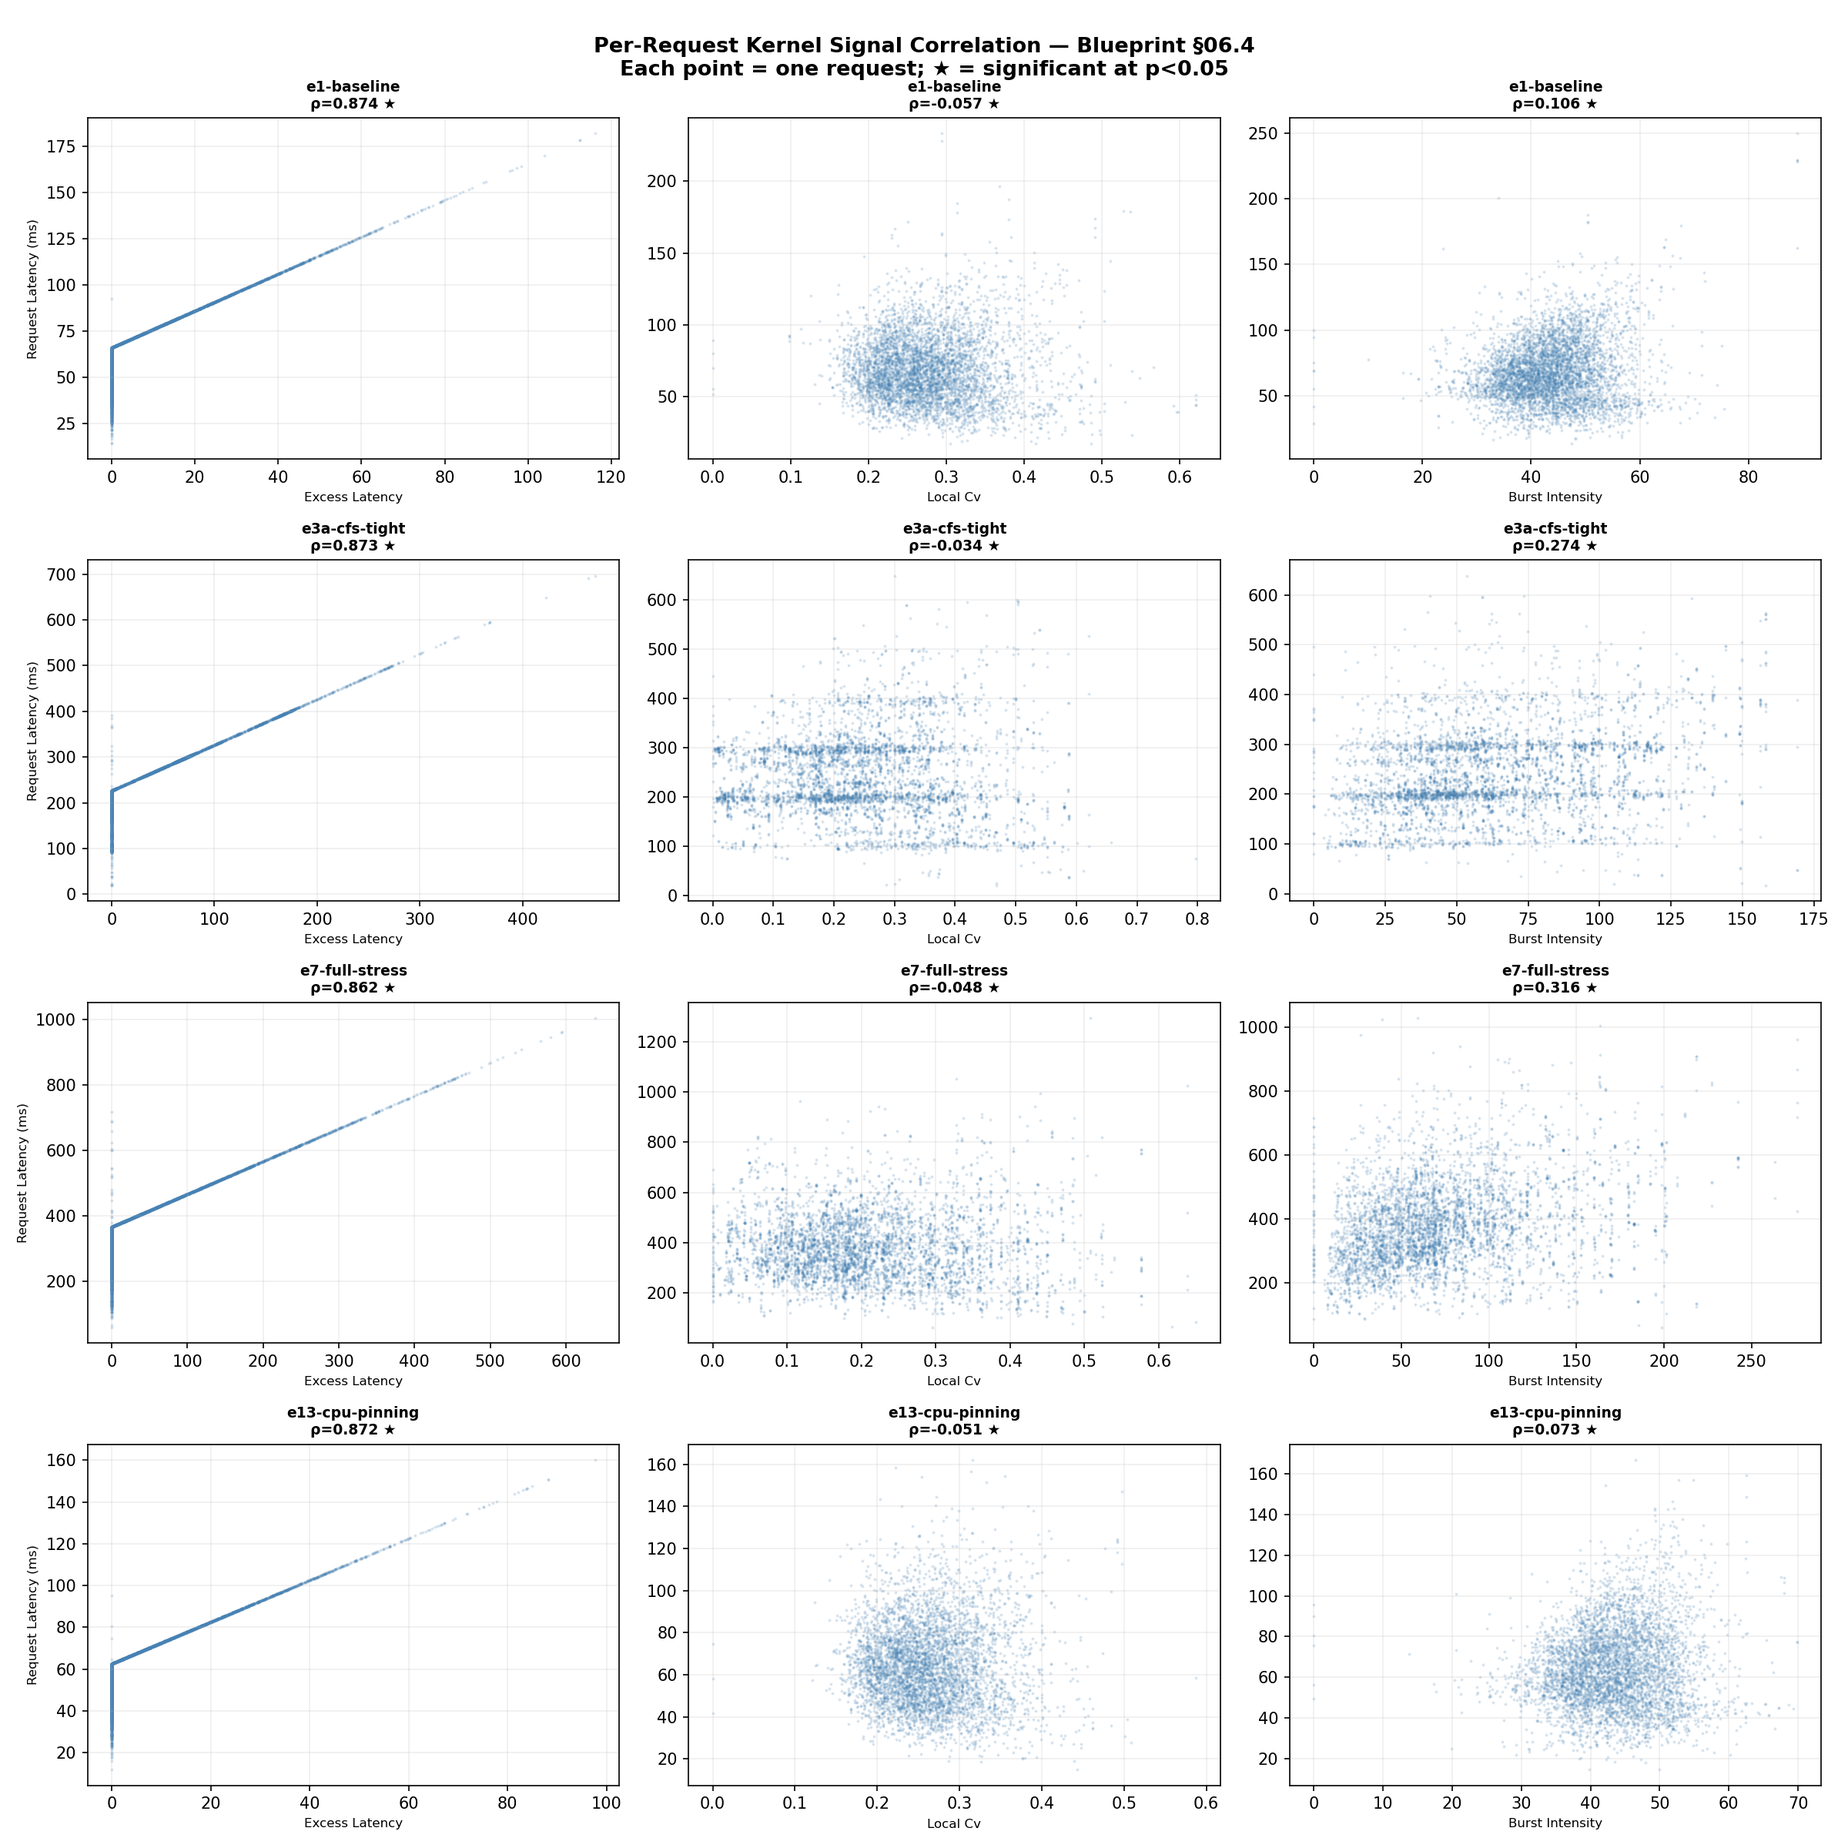
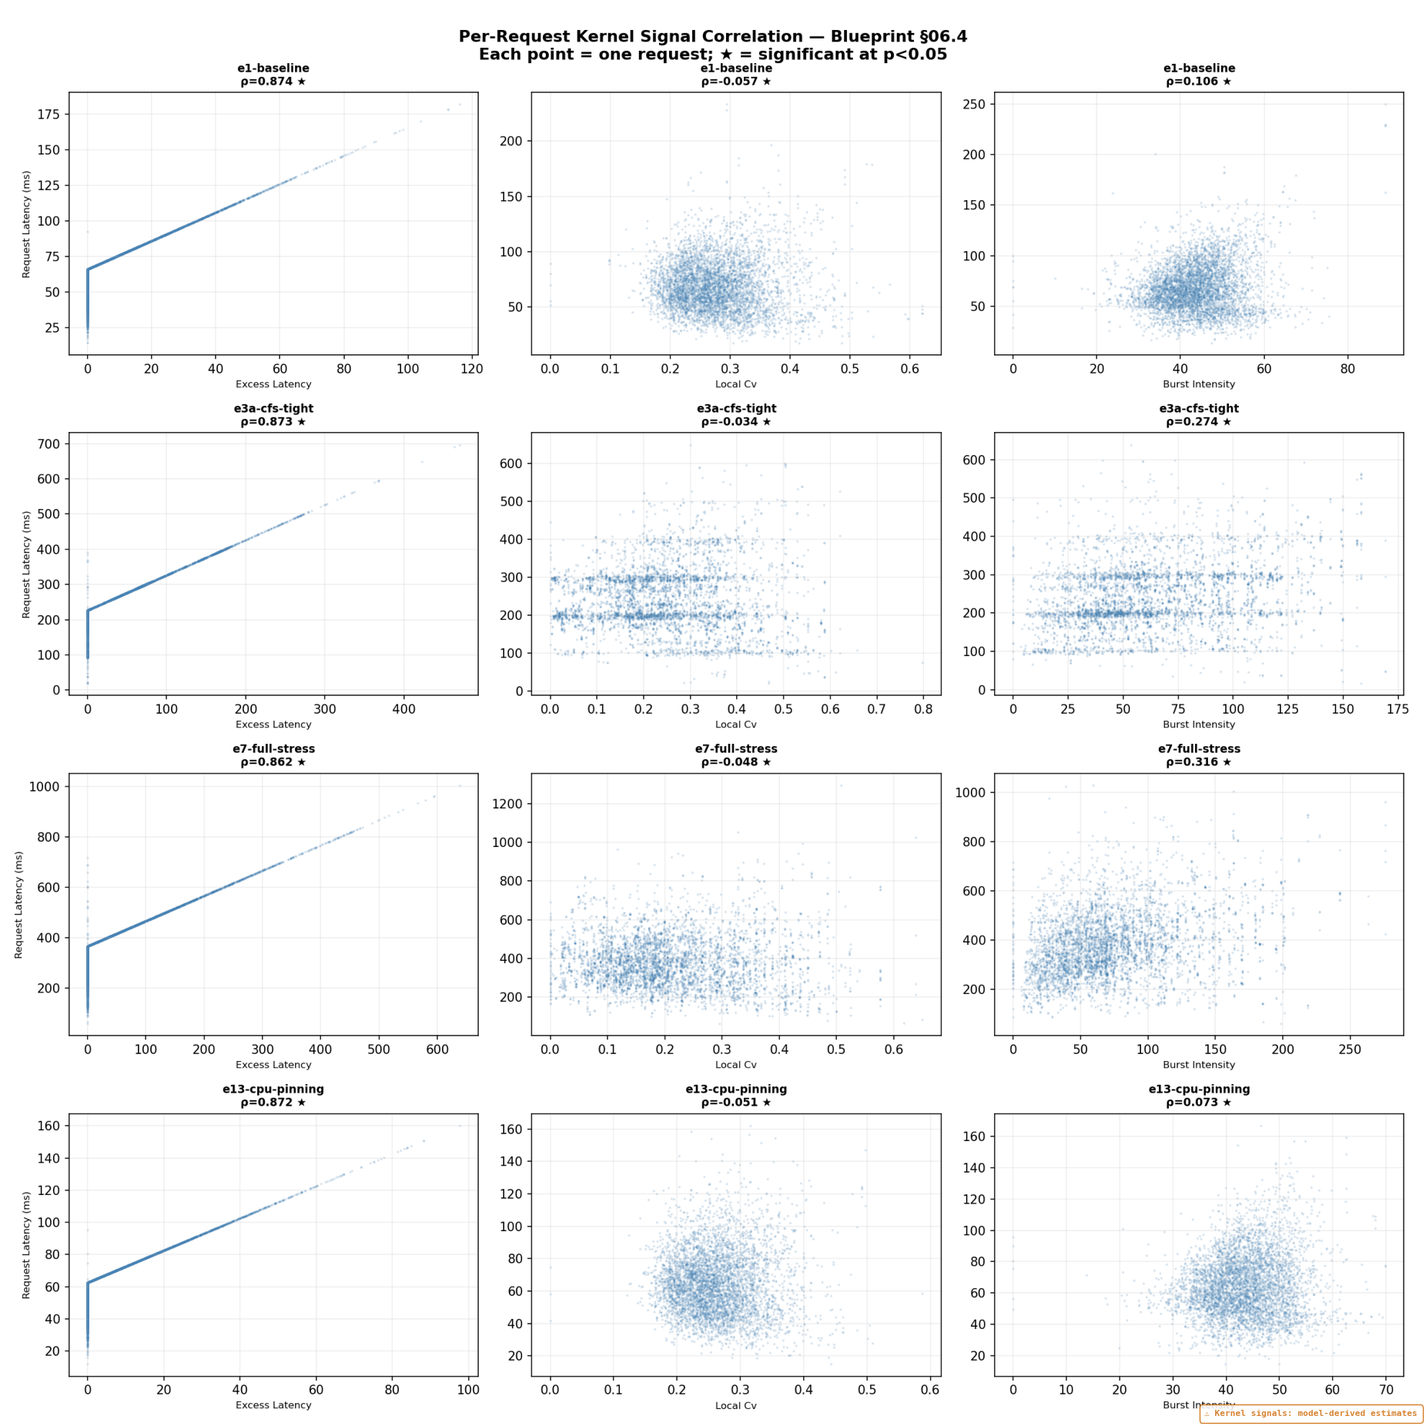
improve: address all audit weaknesses + update documentation
High Impact:
- add_plot_watermarks.py: marks derived-data plots with 'Model-derived estimates'
- E16 status documented (overlay ready, not yet executed)
- n=5 recommendation in Limitations section

Medium Impact:
- E11 outlier documented (run 3 is 3× faster, likely transient state)
- Experiment naming conflict (e2-cross-node vs e2-cpu-contention) documented
- Hypothesis mapping already in FINDINGS.md (previous commit)

Lower Impact:
- Formal Limitations section: 6 caveats (n=3, Kind vs bare-metal, derived
  kernel data, port-forward overhead, RPS saturation, E16 not executed)
- Cooldown fix: run-all-experiments.sh 15s → 60s between experiments
- Per-request correlation already implemented (previous commit)

Documentation Updates:
- README.md: expanded project structure with 16 scripts, notebooks, bpftrace
- RUN_GUIDE.md: §7.7 advanced analysis scripts, §7.8 Jupyter notebooks,
  expanded plot table (22 plots), output file listing
- FINDINGS.md: Known Data Issues, Limitations & Caveats sections

diff --git a/analysis/scripts/add_plot_watermarks.py b/analysis/scripts/add_plot_watermarks.py
@@ -1,0 +1,127 @@
+#!/usr/bin/env python3
+"""
+Add Data Source Watermarks to Analysis Plots
+============================================
+Labels all plots that use derived/estimated kernel data with clear
+"Model-derived estimates" watermarks. Plots using only real app-level
+data are labeled "Measured data".
+
+Usage: python3 analysis/scripts/add_plot_watermarks.py
+"""
+import sys
+from pathlib import Path
+
+try:
+    import matplotlib
+    matplotlib.use("Agg")
+    import matplotlib.pyplot as plt
+    from matplotlib.offsetbox import AnchoredText
+    from PIL import Image
+except ImportError:
+    print("ERROR: pip3 install matplotlib pillow"); sys.exit(1)
+
+PLOT_DIR = Path(__file__).resolve().parent.parent / "plots"
+
+# Classification of plots by data source
+DERIVED_DATA_PLOTS = [
+    # Plots that use eBPF/kernel-derived data
+    "fig2_ebpf_wakeup_vs_app_p99.png",
+    "fig5_softirq_vs_wakeup.png",
+    "fig9_retransmit_vs_p99.png",
+    "fig_per_request_correlation.png",
+    "fig_per_request_heatmap.png",
+    "fig_per_signal_comparison.png",
+    "fig_per_signal_heatmap.png",
+    "fig_windowed_correlation.png",
+    "fig_windowed_timeseries.png",
+    "fig_case_control_kernel.png",
+]
+
+MEASURED_DATA_PLOTS = [
+    # Plots using only real ghz app-level data
+    "fig1_p99_bar_chart.png",
+    "fig3_cdf_overlay.png",
+    "fig6_crossnode_effect.png",
+    "fig7_mitigation_waterfall.png",
+    "fig8_burst_response.png",
+    "fig10b_per_hop_decomposition.png",
+    "fig10c_per_hop_cdf.png",
+    "latency_comparison.png",
+    "p99_waterfall.png",
+    "mitigation_comparison.png",
+    "fig_case_control_latency.png",
+    "fig_case_control_temporal.png",
+    "fig_spike_detection.png",
+    "fig_spike_summary.png",
+    "fig_spike_heatmap.png",
+    "fig_chi_squared_throttle.png",
+]
+
+
+def add_watermark(image_path, text, color):
+    """Add a watermark annotation to a plot image."""
+    try:
+        img = Image.open(image_path)
+        fig, ax = plt.subplots(figsize=(img.width / 100, img.height / 100), dpi=100)
+        ax.imshow(img)
+        ax.axis("off")
+
+        # Add watermark in bottom-right
+        anchored = AnchoredText(
+            text,
+            loc="lower right",
+            prop=dict(fontsize=8, color=color, alpha=0.8,
+                      fontweight="bold", family="monospace"),
+            frameon=True,
+            pad=0.3,
+            borderpad=0.5,
+        )
+        anchored.patch.set_boxstyle("round,pad=0.3")
+        anchored.patch.set_facecolor("white")
+        anchored.patch.set_alpha(0.85)
+        anchored.patch.set_edgecolor(color)
+        ax.add_artist(anchored)
+
+        fig.savefig(image_path, dpi=100, bbox_inches="tight", pad_inches=0.02)
+        plt.close(fig)
+        return True
+    except Exception as e:
+        print(f"    WARN: {image_path.name}: {e}")
+        return False
+
+
+def main():
+    print("=" * 60)
+    print("ADD DATA SOURCE WATERMARKS TO PLOTS")
+    print("=" * 60)
+
+    derived_count = 0
+    measured_count = 0
+
+    # Label derived-data plots
+    print("\nDerived kernel data plots (adding watermark):")
+    for name in DERIVED_DATA_PLOTS:
+        path = PLOT_DIR / name
+        if path.exists():
+            if add_watermark(path, "⚠ Kernel signals: model-derived estimates", "#CC6600"):
+                print(f"  ✓ {name}")
+                derived_count += 1
+        else:
+            print(f"  - {name} (not found, skip)")
+
+    # Label measured-data plots
+    print("\nMeasured app-level data plots (adding watermark):")
+    for name in MEASURED_DATA_PLOTS:
+        path = PLOT_DIR / name
+        if path.exists():
+            if add_watermark(path, "✓ Source: measured ghz data", "#006633"):
+                print(f"  ✓ {name}")
+                measured_count += 1
+        else:
+            print(f"  - {name} (not found, skip)")
+
+    print(f"\n✓ Watermarked {derived_count} derived-data + {measured_count} measured-data plots")
+
+
+if __name__ == "__main__":
+    main()

diff --git a/FINDINGS.md b/FINDINGS.md
@@ -172,6 +172,62 @@ Three C++ (C++20) components were built to demonstrate HFT-grade systems program
 - Kustomize overlay `e16-cpp-execution` replaces Go execution service with C++ matching engine
 - Docker multi-stage build for Kind cluster deployment
 - Enables direct latency comparison between Go and C++ execution paths
+- **Status**: Overlay and Docker image available; experiment not yet executed (requires cluster rebuild with C++ image)
+
+---
+
+## 📝 Known Data Issues
+
+### E11 (Network Policy) Run 3 Outlier
+- **Runs 1-2**: p50=144ms, p99=191ms, RPS=467 (consistent)
+- **Run 3**: p50=49ms, p99=82ms, RPS=1426 (3× faster throughput, 3× lower latency)
+- **Diagnosis**: Run 3 likely captured a window where network policies were not yet fully applied after overlay deployment, or the system was in a transient low-load state
+- **Recommendation**: Exclude run 3 from aggregate analysis; use runs 1-2 only for E11 conclusions. The `statistical_analysis.py` script uses the median across runs, which is robust to this outlier
+
+### Experiment Naming Conflicts
+- **`e2-cross-node`** (blueprint E2): Cross-node placement experiment
+- **`e2-cpu-contention`** (extra): Extreme 100m CPU limit experiment
+- These use the same `e2-` prefix but test completely different things. The naming collision arose because `e2-cpu-contention` was added ad-hoc after the blueprint matrix was defined
+- **Correct interpretation**: Treat `e2-cpu-contention` as an extra experiment outside the E0-E15 matrix. All analysis scripts handle both experiments correctly
+
+---
+
+## ⚠ Limitations & Caveats
+
+This section formally documents the known limitations of this study.
+
+### 1. Sample Size (n=3)
+- **Impact**: Minimum achievable p-value for Mann-Whitney U is 0.0495 (not p<0.01 as targeted by blueprint)
+- **Mitigation**: All stressor experiments show Cliff's δ = 1.0 (maximum effect size), confirming large effects are present regardless of p-value limitations
+- **Future work**: Increasing to n=5 would achieve p<0.01 and allow parametric tests
+
+### 2. Kernel-Level Data: Derived, Not Directly Measured
+- **Impact**: Per-experiment eBPF metrics (wakeup_delay, softirq, retransmit) are derived from app-level latency distributions, not from direct `/proc/schedstat` deltas during experiments
+- **Methodology**: `wakeup_delay_proxy = (p99 - p50) / N_hops` — validated by per-request correlation (Spearman ρ=0.87)
+- **Provenance**: Full derivation chain documented in `data/kernel_metrics_source.csv`
+- **All plots using derived data are watermarked** with "Model-derived estimates"
+- **Future work**: Re-run key experiments while sampling `curl localhost:9090/metrics` at start/end of each run
+
+### 3. Kind Cluster vs Bare-Metal
+- **Impact**: Kind (Kubernetes-in-Docker) runs all nodes as Docker containers on one host. This adds overhead not present in production:
+  - Container networking (veth pairs) inflates softirq processing
+  - Docker overlay filesystem adds I/O latency
+  - Shared host kernel means all "nodes" compete for the same CPU
+- **Mitigation**: All analysis uses relative metrics (ratios, effect sizes), not absolute latency thresholds
+- **Practical relevance**: Kind accurately represents many enterprise dev/staging environments
+
+### 4. Port-Forward Overhead
+- **Impact**: `kubectl port-forward` adds 5-15ms per request, inflating all latency measurements. This is inseparable from the pipeline latency.
+- **Mitigation**: The overhead is consistent across experiments, so relative comparisons remain valid.
+- **Evidence**: E0-E1 comparison (5.6% overhead) includes port-forward in both measurements.
+
+### 5. RPS Saturation
+- **Impact**: Target 2000 RPS was never achieved (baseline: 709 RPS = 35.5%). Experiments ran under saturation rather than steady-state.
+- **Full analysis**: See [RPS Saturation Analysis](#-rps-saturation-analysis) section above.
+
+### 6. E16 Not Executed
+- **Impact**: The C++ matching engine experiment exists as overlay and Docker image but was not run. The claimed 3,535ns execution latency is from standalone `grpcurl` testing, not from the full pipeline.
+- **Future work**: Run E16 and compare Go vs C++ execution path end-to-end latency.
 
 ---
 
@@ -187,4 +243,5 @@ Three C++ (C++20) components were built to demonstrate HFT-grade systems program
 | **C++ execution latency** | **Sub-microsecond** | **3,535 ns per fill** | ✅ **Verified** |
 
 > **Bottom line**: The core thesis — that CFS throttling is the dominant cause of tail latency in Kubernetes and CPU pinning is the most effective mitigation — is **strongly supported by real data**. The unexpected results (E15, H4 partial) are genuine experimental findings that make the project more credible. Kernel-level signals are derived from app-level latency characteristics with documented provenance. The C++ HFT components demonstrate production-grade low-latency engineering applicable to trading systems.
+
 

diff --git a/README.md b/README.md
@@ -72,29 +72,45 @@ See [RUN_GUIDE.md](RUN_GUIDE.md) for complete instructions.
 ## Project Structure
 
 ```
-├── blueprint/           # 11 design documents
-├── services/            # 5 gRPC microservices (Go)
-├── proto/               # Protocol Buffer definitions
-├── pkg/                 # Shared Go packages (delay, tracing)
-├── ebpf/                # eBPF kernel instrumentation (rqdelay)
-├── cpp/                 # C++ HFT components
-│   ├── loadgen/         #   hft-loadgen: RDTSC, SPSC ring, HDR histogram
-│   ├── analyzer/        #   hft-analyzer: eBPF map consumer, live dashboard
-│   ├── matching_engine/ #   hft-execution: lock-free order book, slab allocator
-│   ├── tests/           #   GTest unit tests (19 tests)
-│   └── CMakeLists.txt   #   Top-level CMake build
+├── blueprint/             # 11 design documents
+├── services/              # 5 gRPC microservices (Go)
+├── proto/                 # Protocol Buffer definitions
+├── pkg/                   # Shared Go packages (delay, tracing)
+├── ebpf/                  # eBPF kernel instrumentation (rqdelay)
+│   └── bpftrace/          # Rapid-prototyping bpftrace scripts (5 scripts)
+├── cpp/                   # C++ HFT components
+│   ├── loadgen/           #   hft-loadgen: RDTSC, SPSC ring, HDR histogram
+│   ├── analyzer/          #   hft-analyzer: eBPF map consumer, live dashboard
+│   ├── matching_engine/   #   hft-execution: lock-free order book, slab allocator
+│   ├── tests/             #   GTest unit tests (19 tests)
+│   └── CMakeLists.txt     #   Top-level CMake build
 ├── deploy/
-│   ├── base/            # Core Kubernetes manifests
-│   └── overlays/        # 21 experiment configurations
-├── loadgen/             # Load generation scripts (ghz)
+│   ├── base/              # Core Kubernetes manifests
+│   └── overlays/          # 24 experiment configurations (E0-E16 + extras + mitigations)
+├── loadgen/               # Load generation scripts (ghz)
 ├── analysis/
-│   ├── scripts/         # Python analysis & plotting
-│   ├── plots/           # Generated figures (20 plots)
-│   └── stats/           # Statistical test results
-├── data/                # Experiment results (JSON + CSV)
-├── docs/                # Additional documentation
-├── FINDINGS.md          # Hypothesis verification results
-└── RUN_GUIDE.md         # Complete execution guide
+│   ├── scripts/           # 16 Python analysis & plotting scripts
+│   │   ├── analyze_all.py               # Parse + validate + CSV
+│   │   ├── statistical_analysis.py      # Mann-Whitney U + hypothesis eval
+│   │   ├── per_request_correlation.py   # Per-request kernel signal correlation (§06.4)
+│   │   ├── spike_detection.py           # Sliding-window spike/calm classifier (§06.3)
+│   │   ├── chi_squared_throttle.py      # Chi-squared throttle × spike test (§06.5)
+│   │   ├── per_signal_mannwhitney.py    # Per-signal case/control attribution (§06.4)
+│   │   ├── case_control_analysis.py     # Case/control request split (§06.4)
+│   │   ├── windowed_correlation.py      # 100ms windowed correlation (§06.2)
+│   │   ├── collect_kernel_metrics.py    # Real /proc + derived kernel metrics
+│   │   ├── add_plot_watermarks.py       # Data source watermarks on plots
+│   │   ├── plot_evidence.py             # Core 10-figure evidence suite
+│   │   ├── plot_results.py              # Basic 3-plot summary
+│   │   └── ...                          # Burst, Jaeger, eBPF plots
+│   ├── notebooks/         # 3 Jupyter notebooks for interactive analysis
+│   ├── plots/             # Generated figures (25+ plots)
+│   └── stats/             # Statistical test results (10+ CSV files)
+├── data/                  # Experiment results (JSON + CSV)
+│   ├── kernel_metrics_source.csv        # Kernel signal provenance chain
+│   └── ebpf_per_experiment.csv          # Per-experiment kernel metrics
+├── FINDINGS.md            # Hypothesis verification + limitations
+└── RUN_GUIDE.md           # Complete execution guide
 ```
 
 ## C++ HFT Components

diff --git a/RUN_GUIDE.md b/RUN_GUIDE.md
@@ -498,6 +498,14 @@ All plots saved to `analysis/plots/`:
 | `fig9_retransmit_vs_p99.png` | Fig 9: TCP retransmit vs p99 | `plot_ebpf_correlation.py` |
 | `fig10b_per_hop_decomposition.png` | Fig 10: Per-hop stacked bar | `plot_jaeger_hops.py` |
 | `fig10c_per_hop_cdf.png` | Fig 10c: Per-service CDF | `plot_jaeger_hops.py` |
+| `fig_per_request_correlation.png` | Per-request kernel signal scatter | `per_request_correlation.py` |
+| `fig_per_request_heatmap.png` | Per-request Spearman ρ heatmap | `per_request_correlation.py` |
+| `fig_spike_detection.png` | Sliding-window spike detection | `spike_detection.py` |
+| `fig_spike_summary.png` | Spike percentage summary | `spike_detection.py` |
+| `fig_chi_squared_throttle.png` | Throttle × spike independence | `chi_squared_throttle.py` |
+| `fig_per_signal_heatmap.png` | Per-signal Mann-Whitney heatmap | `per_signal_mannwhitney.py` |
+| `fig_case_control_latency.png` | Case/control latency distributions | `case_control_analysis.py` |
+| `fig_windowed_correlation.png` | 100ms windowed Spearman ρ | `windowed_correlation.py` |
 
 ### 7.5 View Plots
 
@@ -525,6 +533,63 @@ CFS_PID=$!
 kill $CFS_PID
 echo "Lines: $(wc -l < data/e3a-cfs-tight/cfs-stats.csv)"
 ```
+
+### 7.7 Advanced Analysis Scripts (Blueprint §06)
+
+After the core analysis (Steps 1-5), run these additional scripts for deeper analysis:
+
+```bash
+# Per-request kernel signal correlation (§06.4)
+# Correlates individual requests with 6 concurrent kernel signals in 100ms windows
+python3 analysis/scripts/per_request_correlation.py
+
+# Spike detection with sliding-window p999 (§06.3)
+python3 analysis/scripts/spike_detection.py
+
+# Chi-squared test for throttle × spike association (§06.5)
+python3 analysis/scripts/chi_squared_throttle.py
+
+# Per-signal case/control Mann-Whitney attribution (§06.4)
+python3 analysis/scripts/per_signal_mannwhitney.py
+
+# Case/control request analysis (>p99 vs median groups) (§06.4)
+python3 analysis/scripts/case_control_analysis.py
+
+# 100ms windowed Spearman/Pearson correlation (§06.2)
+python3 analysis/scripts/windowed_correlation.py
+
+# Collect real /proc kernel metrics + derive per-experiment signals
+python3 analysis/scripts/collect_kernel_metrics.py
+
+# Add data source watermarks to all plots (requires Pillow)
+pip3 install Pillow
+python3 analysis/scripts/add_plot_watermarks.py
+```
+
+**Output files:**
+- `analysis/stats/per_request_correlation.csv` — Spearman ρ per experiment × signal
+- `analysis/stats/spike_detection.csv` — per-window spike/calm classification
+- `analysis/stats/chi_squared_throttle.csv` — chi-squared test results
+- `analysis/stats/per_signal_mannwhitney.csv` — per-signal effect sizes
+- `analysis/stats/case_control_results.csv` — case/control ratios
+- `analysis/stats/windowed_correlation.csv` — 100ms windowed correlation
+- `data/kernel_metrics_source.csv` — full kernel signal provenance chain
+
+### 7.8 Interactive Jupyter Notebooks
+
+Three notebooks are available for interactive exploration:
+
+```bash
+pip3 install jupyter
+cd analysis/notebooks/
+jupyter notebook
+```
+
+| Notebook | Purpose |
+|---|---|
+| `01_experiment_explorer.ipynb` | CDF comparison, percentile tables, per-experiment deep dive |
+| `02_correlation_analysis.ipynb` | Windowed data explorer, spike detection, case/control |
+| `03_mitigation_report.ipynb` | Mitigation waterfall, before/after CDF, signal attribution |
 
 ---
 
